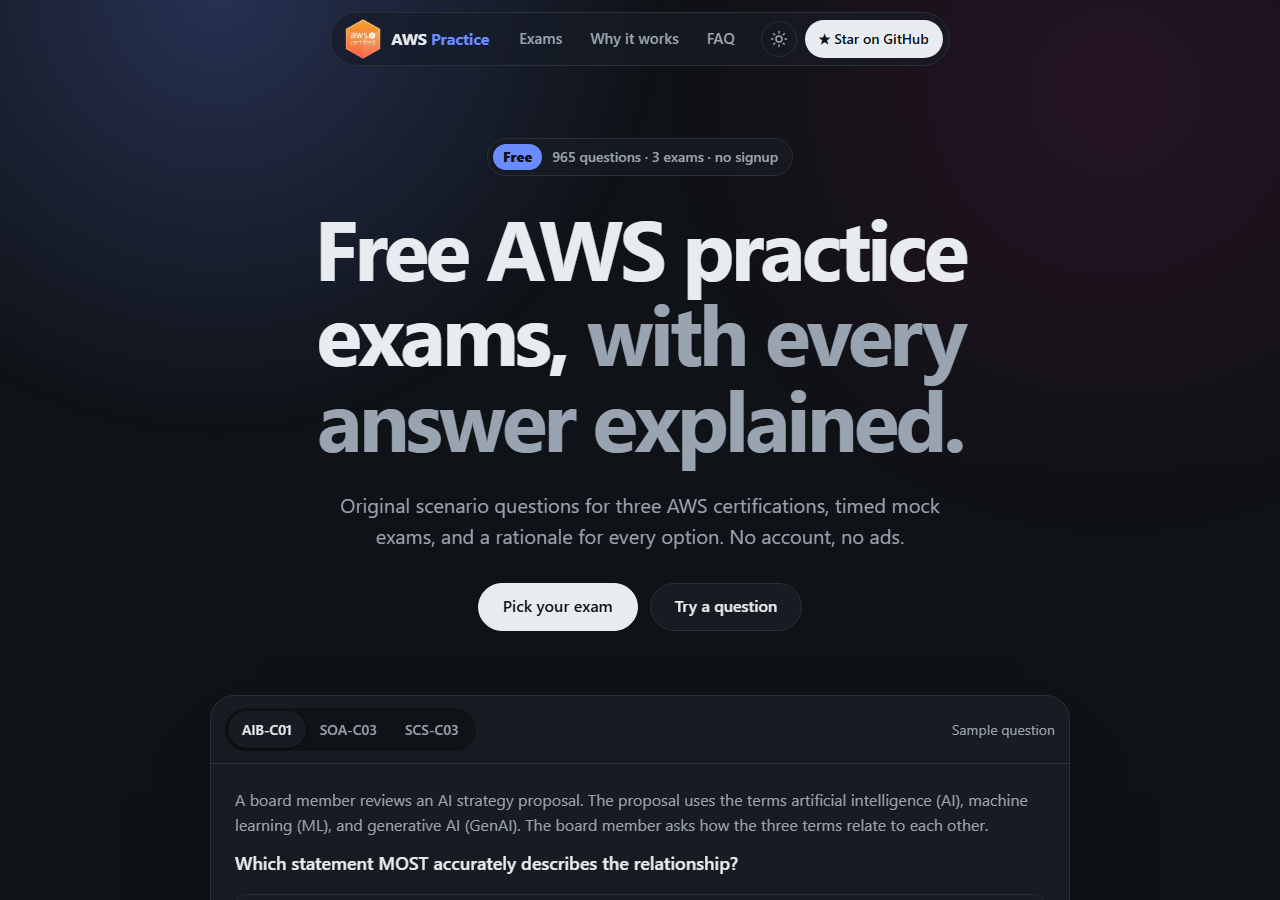
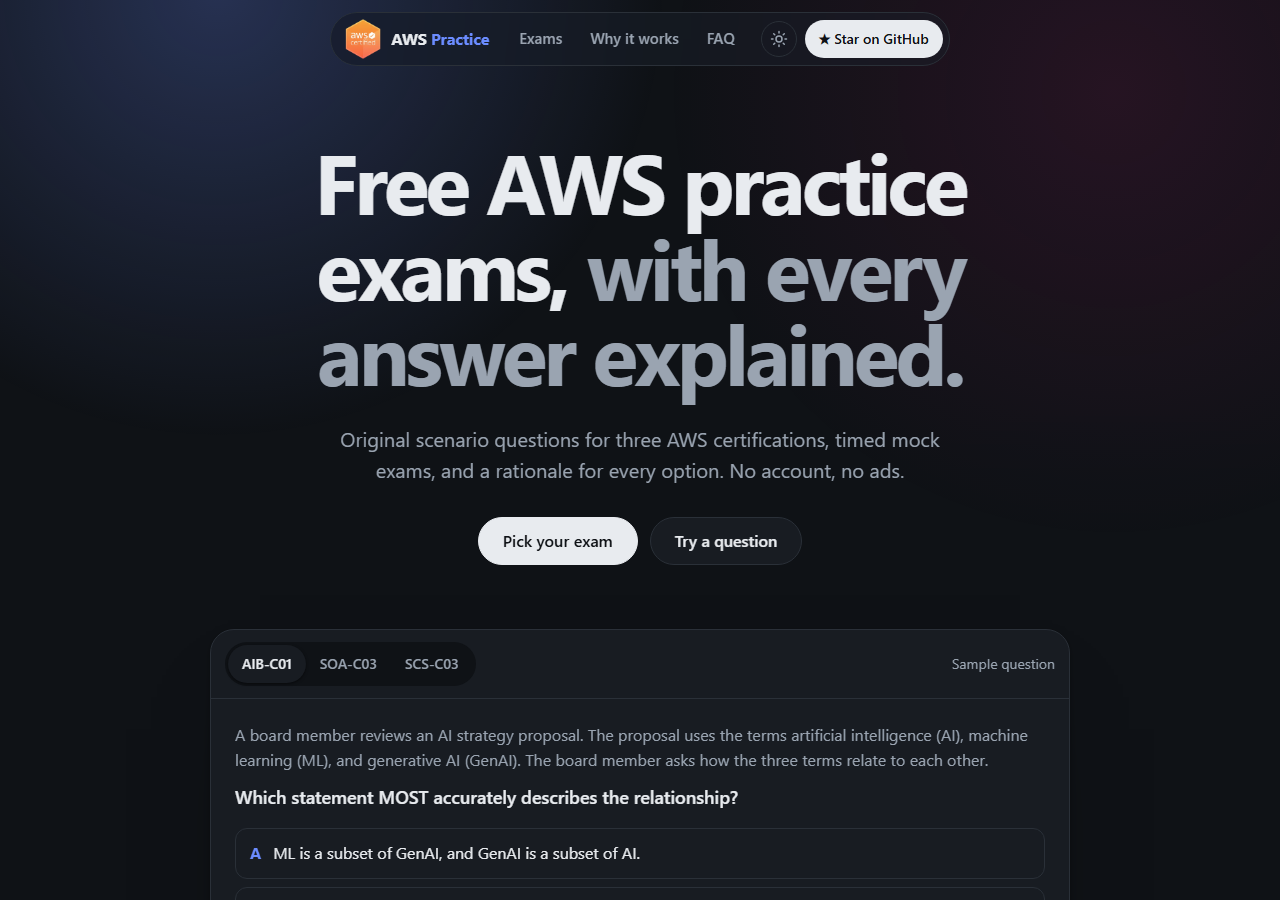
Remove the repeated pill above the headline

diff --git a/style.css b/style.css
@@ -61,9 +61,7 @@ h1, h2, h3, p { margin: 0; }
 .wash i:first-child { left: -18vmax; top: -30vmax; background: radial-gradient(closest-side, color-mix(in srgb, var(--accent) 26%, transparent), transparent); }
 .wash i:last-child { right: -22vmax; top: -22vmax; background: radial-gradient(closest-side, color-mix(in srgb, #e0218a 11%, transparent), transparent); animation-duration: 34s; animation-direction: alternate-reverse; }
 @keyframes drift { from { transform: translate3d(-4%, -3%, 0) scale(1); } to { transform: translate3d(8%, 6%, 0) scale(1.15); } }
-.badge { display: inline-flex; align-items: center; gap: 10px; padding: 5px 14px 5px 5px; border: 1px solid var(--line); border-radius: 980px; background: var(--glass); color: var(--muted); font-size: .875rem; font-weight: 600; }
-.badge b { padding: 2px 10px; border-radius: 980px; background: var(--accent); color: var(--accent-ink); }
-.hero h1 { max-width: 15ch; margin: 28px auto 0; font-size: clamp(2.6rem, 8vw, 5.25rem); font-weight: 700; line-height: 1.02; letter-spacing: -.045em; text-wrap: balance; }
+.hero h1 { max-width: 15ch; margin: 0 auto; font-size: clamp(2.6rem, 8vw, 5.25rem); font-weight: 700; line-height: 1.02; letter-spacing: -.045em; text-wrap: balance; }
 .soft { color: var(--muted); }
 .sub { max-width: 56ch; margin: 28px auto 0; color: var(--muted); font-size: clamp(1.05rem, 2vw, 1.25rem); text-wrap: pretty; }
 .cta { display: flex; flex-wrap: wrap; justify-content: center; gap: 12px; margin-top: 32px; }
@@ -71,7 +69,6 @@ h1, h2, h3, p { margin: 0; }
 .js .w { display: inline-block; animation: rise .9s var(--ease) both; animation-delay: calc(var(--i) * 70ms); }
 .js .sub.w, .js .stage.w { display: block; }
 .js .cta.w { display: flex; }
-.js .badge.w { display: inline-flex; }
 @keyframes rise { from { opacity: 0; transform: translateY(.45em); filter: blur(10px); } }
 
 /* ---------- Live sample question, framed like a product preview ---------- */

diff --git a/index.html b/index.html
@@ -51,7 +51,6 @@
 <main>
 <section class="hero">
   <div class="wash" aria-hidden="true"><i></i><i></i></div>
-  <p class="badge w" style="--i:0"><b>Free</b>965 questions · 3 exams · no signup</p>
   <h1><span class="w" style="--i:1">Free</span> <span class="w" style="--i:2">AWS</span> <span class="w" style="--i:3">practice</span> <span class="w" style="--i:4">exams,</span> <span class="soft"><span class="w" style="--i:5">with</span> <span class="w" style="--i:6">every</span> <span class="w" style="--i:7">answer</span> <span class="w" style="--i:8">explained.</span></span></h1>
   <p class="sub w" style="--i:10">Original scenario questions for three AWS certifications, timed mock exams, and a rationale for every option. No account, no ads.</p>
   <div class="cta w" style="--i:12"><a class="btn primary" href="#exams">Pick your exam</a><a class="btn" href="#try">Try a question</a></div>
